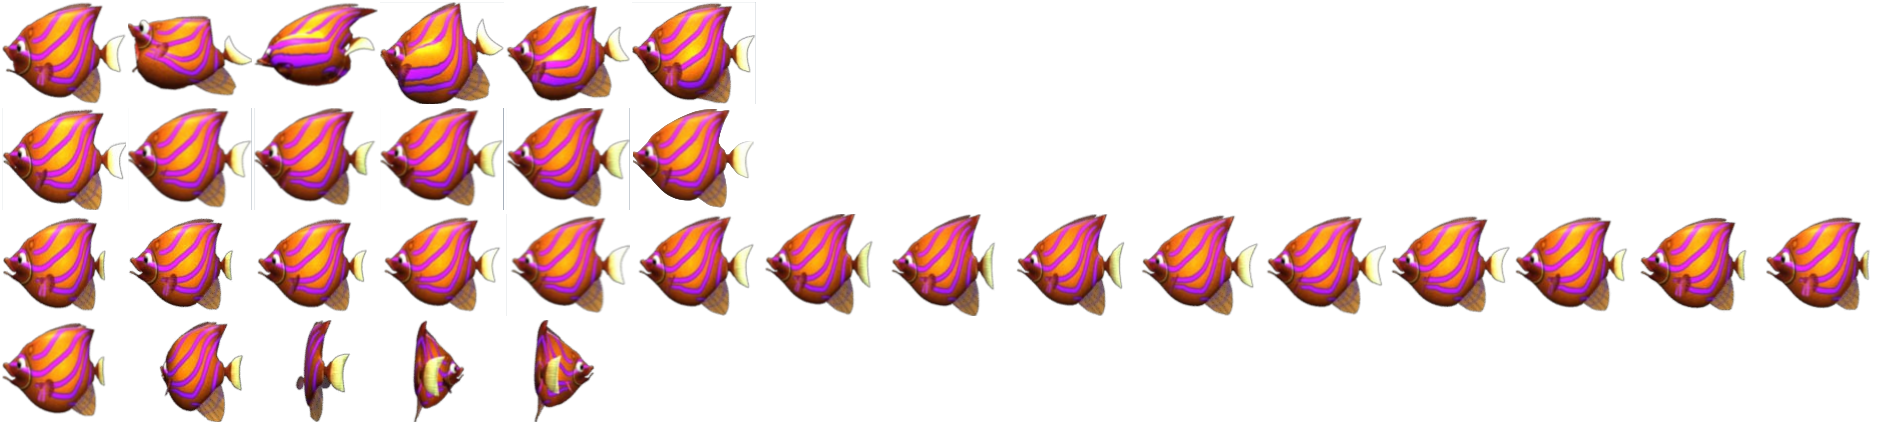
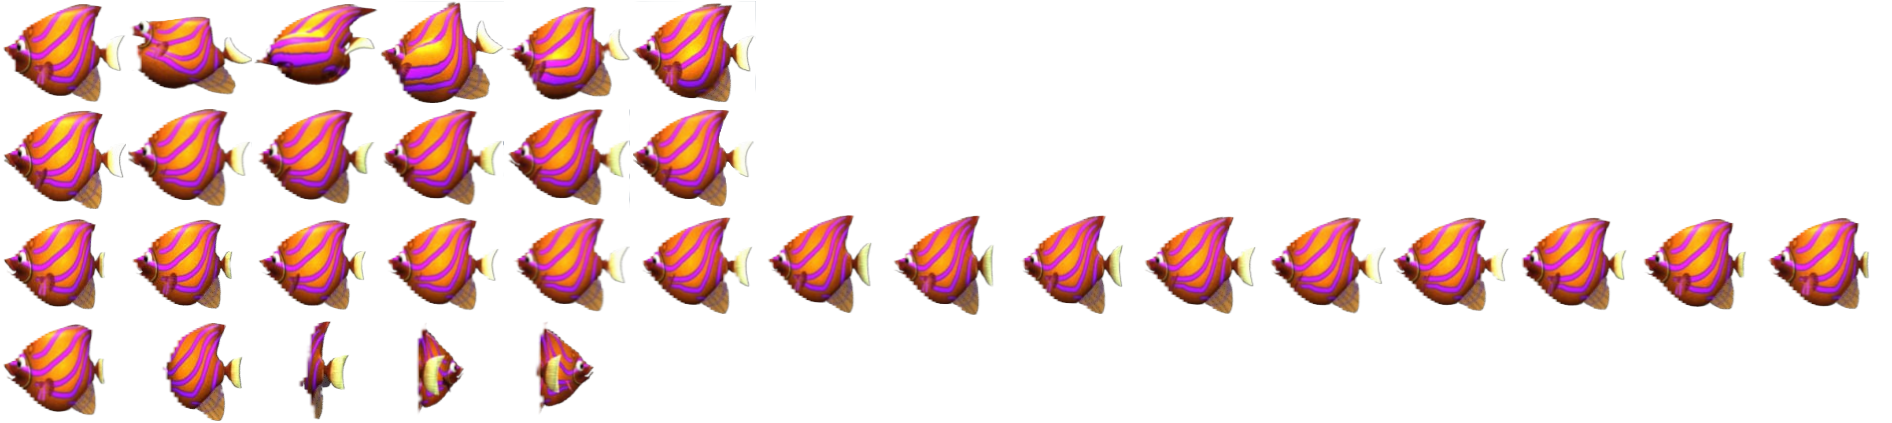
Fix animation

diff --git a/src/Entities/Player.cpp b/src/Entities/Player.cpp
@@ -15,6 +15,7 @@ namespace FishGame
     // Static member initialization
     const sf::Time Player::m_invulnerabilityDuration = sf::seconds(2.0f);
     const sf::Time Player::m_damageCooldownDuration = sf::seconds(0.5f);
+    const sf::Time Player::m_eatAnimationDuration = sf::seconds(0.6f);
 
     Player::Player()
         : Entity()
@@ -40,6 +41,7 @@ namespace FishGame
         , m_damageTaken(0)
         , m_activeEffects()
         , m_eatAnimationScale(1.0f)
+        , m_eatAnimationTimer(sf::Time::Zero)
         , m_damageFlashColor(sf::Color::White)
         , m_damageFlashIntensity(0.0f)
         , m_animator(nullptr)
@@ -164,7 +166,7 @@ namespace FishGame
         constrainToWindow();
 
         // Auto-orient sprite based on velocity
-        if (m_autoOrient && m_animator && m_renderMode == RenderMode::Sprite)
+        if (m_autoOrient && m_animator && m_renderMode == RenderMode::Sprite && m_eatAnimationTimer <= sf::Time::Zero)
         {
             if (std::abs(m_velocity.x) > m_orientationThreshold)
             {
@@ -215,7 +217,7 @@ namespace FishGame
             else
                 desired = m_facingRight ? "idleRight" : "idleLeft";
 
-            if (desired != m_currentAnimation)
+            if (m_eatAnimationTimer <= sf::Time::Zero && desired != m_currentAnimation)
             {
                 m_animator->play(desired);
                 m_currentAnimation = desired;
@@ -604,6 +606,7 @@ namespace FishGame
     void Player::triggerEatEffect()
     {
         m_eatAnimationScale = 1.3f;
+        m_eatAnimationTimer = m_eatAnimationDuration;
 
         if (m_animator)
         {
@@ -721,6 +724,13 @@ namespace FishGame
 
     void Player::updateVisualEffects(sf::Time deltaTime)
     {
+        if (m_eatAnimationTimer > sf::Time::Zero)
+        {
+            m_eatAnimationTimer -= deltaTime;
+            if (m_eatAnimationTimer < sf::Time::Zero)
+                m_eatAnimationTimer = sf::Time::Zero;
+        }
+
         if (m_eatAnimationScale > 1.0f)
         {
             m_eatAnimationScale -= m_eatAnimationSpeed * deltaTime.asSeconds();

diff --git a/include/Entities/Player.h b/include/Entities/Player.h
@@ -178,6 +178,8 @@ namespace FishGame
         // Eat animation
         float m_eatAnimationScale;
         static constexpr float m_eatAnimationSpeed = 10.0f;
+        sf::Time m_eatAnimationTimer;
+        static const sf::Time m_eatAnimationDuration;
 
         // Damage flash
         sf::Color m_damageFlashColor;
